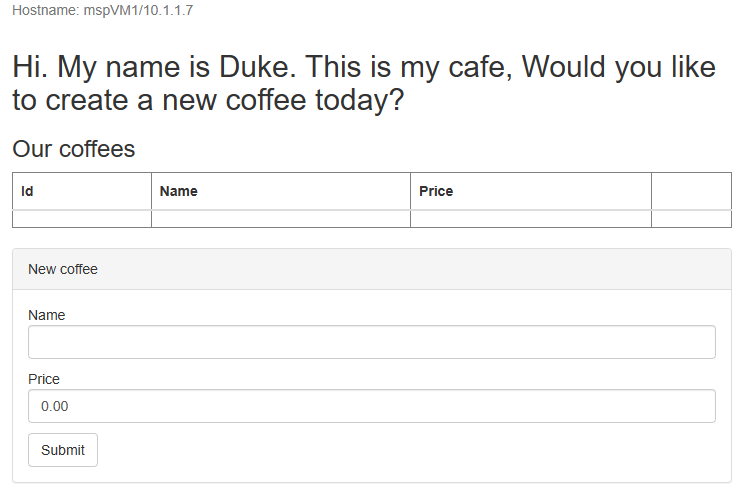
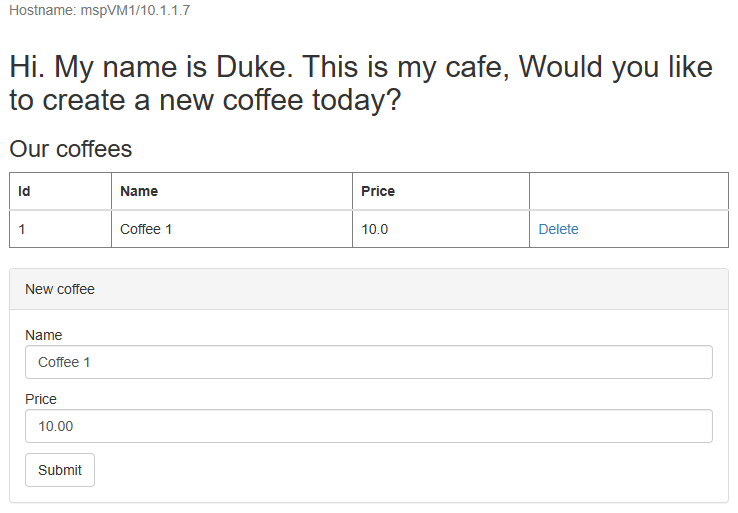
refine sections

diff --git a/articles/java/migration/migrate-weblogic-to-vms-with-ha-dr.md b/articles/java/migration/migrate-weblogic-to-vms-with-ha-dr.md
@@ -22,7 +22,7 @@ In this tutorial, you learn how to:
 > - Setup paired WLS clusters on Azure VMs, where your application workload will be deployed and running.
 > - Setup an Azure Traffic Manager, which allows you to distribute traffic to your public facing applications across the global Azure regions.
 > - Configure active and passive WLS clusters for high availability and disaster recovery.
-> - Validate the solution.
+> - Test failover.
 
 ## Prerequisites
 
@@ -46,31 +46,32 @@ Create a single database in Azure SQL Database and add it to an auto-failover gr
       * Write down **Password**.
       * Select **(US) West US** for **Location**.
    1. In step 12 for **Networking** configuration, select **Yes** for **Allow Azure services and resources to access this server**.
+   1. After you create the primary server, open its database, for example, *mySampleDatabase*.
+      1. In the **Query editor (preview)** pane, enter **azureuser** for **Login**, server admin login password you wrote down before for **Password**, and select **OK**. You should see **Query editor** window after successful login.
+
+      > [!NOTE]
+      > If login failed with the similar error message **Client with IP address 'xx.xx.xx.xx' is not allowed to access the server**, select **Allowlist IP xx.xx.xx.xx on server \<your-sqlserver-name\>** at the end of the error message. Wait until server firewall rules updates complete and select **OK** again.
+
+      1. Copy and paste the following SQL query to the editor, and select **Run**. You should see message **Query succeeded: Affected rows: 0** after successful run.
+
+      ```sql
+      create table TLOG_msp1_primary_WLStore (ID DECIMAL(38) NOT NULL, TYPE DECIMAL(38) NOT NULL, HANDLE DECIMAL(38) NOT NULL, RECORD VARBINARY(MAX) NOT NULL, PRIMARY KEY (ID));
+      create table TLOG_msp2_primary_WLStore (ID DECIMAL(38) NOT NULL, TYPE DECIMAL(38) NOT NULL, HANDLE DECIMAL(38) NOT NULL, RECORD VARBINARY(MAX) NOT NULL, PRIMARY KEY (ID));
+      create table TLOG_msp3_primary_WLStore (ID DECIMAL(38) NOT NULL, TYPE DECIMAL(38) NOT NULL, HANDLE DECIMAL(38) NOT NULL, RECORD VARBINARY(MAX) NOT NULL, PRIMARY KEY (ID));
+      create table TLOG_msp1_secondary_WLStore (ID DECIMAL(38) NOT NULL, TYPE DECIMAL(38) NOT NULL, HANDLE DECIMAL(38) NOT NULL, RECORD VARBINARY(MAX) NOT NULL, PRIMARY KEY (ID));
+      create table TLOG_msp2_secondary_WLStore (ID DECIMAL(38) NOT NULL, TYPE DECIMAL(38) NOT NULL, HANDLE DECIMAL(38) NOT NULL, RECORD VARBINARY(MAX) NOT NULL, PRIMARY KEY (ID));
+      create table TLOG_msp3_secondary_WLStore (ID DECIMAL(38) NOT NULL, TYPE DECIMAL(38) NOT NULL, HANDLE DECIMAL(38) NOT NULL, RECORD VARBINARY(MAX) NOT NULL, PRIMARY KEY (ID));
+      create table wl_servlet_sessions (wl_id VARCHAR(100) NOT NULL, wl_context_path VARCHAR(100) NOT NULL, wl_is_new CHAR(1), wl_create_time DECIMAL(20), wl_is_valid CHAR(1), wl_session_values VARBINARY(MAX), wl_access_time DECIMAL(20), wl_max_inactive_interval INTEGER, PRIMARY KEY (wl_id, wl_context_path));
+      ```
+
+      These database tables are used for storing transaction logs and sessions data for your WLS clusters and app later.
 
 1. When you reach the section [2 - Create the failover group](/azure/azure-sql/database/failover-group-add-single-database-tutorial?view=azuresql-db&preserve-view=true&tabs=azure-portal#2---create-the-failover-group):
    1. In step 5 for creating the **Failover group**, write down the unique name for **Failover group name**. For example, *failovergroup-ejb113023*.
    1. In step 5 for creating the secondary server, select **(US) East US** for **Location**. Make sure **Allow Azure services to access server** is checked.
 
-After you create the Azure SQL Database failover group, open the SQL database of the primary server. 
-
-1. In the **Query editor (preview)** pane, enter **azureuser** for **Login**, server admin login password you wrote down before for **Password**, and select **OK**. You should see **Query editor** window after successful login.
-
-   > [!NOTE]
-   > If login failed with the similar error message **Client with IP address 'xx.xx.xx.xx' is not allowed to access the server**, select **Allowlist IP xx.xx.xx.xx on server \<your-sqlserver-name\>** at the end of the error message. Wait until server firewall rules updates complete and select **OK** again.
-
-1. Copy and paste the following SQL query to the editor, and select **Run**. You should see message **Query succeeded: Affected rows: 0** after successful run.
-
-   ```sql
-   create table TLOG_msp1_primary_WLStore (ID DECIMAL(38) NOT NULL, TYPE DECIMAL(38) NOT NULL, HANDLE DECIMAL(38) NOT NULL, RECORD VARBINARY(MAX) NOT NULL, PRIMARY KEY (ID));
-   create table TLOG_msp2_primary_WLStore (ID DECIMAL(38) NOT NULL, TYPE DECIMAL(38) NOT NULL, HANDLE DECIMAL(38) NOT NULL, RECORD VARBINARY(MAX) NOT NULL, PRIMARY KEY (ID));
-   create table TLOG_msp3_primary_WLStore (ID DECIMAL(38) NOT NULL, TYPE DECIMAL(38) NOT NULL, HANDLE DECIMAL(38) NOT NULL, RECORD VARBINARY(MAX) NOT NULL, PRIMARY KEY (ID));
-   create table TLOG_msp1_secondary_WLStore (ID DECIMAL(38) NOT NULL, TYPE DECIMAL(38) NOT NULL, HANDLE DECIMAL(38) NOT NULL, RECORD VARBINARY(MAX) NOT NULL, PRIMARY KEY (ID));
-   create table TLOG_msp2_secondary_WLStore (ID DECIMAL(38) NOT NULL, TYPE DECIMAL(38) NOT NULL, HANDLE DECIMAL(38) NOT NULL, RECORD VARBINARY(MAX) NOT NULL, PRIMARY KEY (ID));
-   create table TLOG_msp3_secondary_WLStore (ID DECIMAL(38) NOT NULL, TYPE DECIMAL(38) NOT NULL, HANDLE DECIMAL(38) NOT NULL, RECORD VARBINARY(MAX) NOT NULL, PRIMARY KEY (ID));
-   create table wl_servlet_sessions (wl_id VARCHAR(100) NOT NULL, wl_context_path VARCHAR(100) NOT NULL, wl_is_new CHAR(1), wl_create_time DECIMAL(20), wl_is_valid CHAR(1), wl_session_values VARBINARY(MAX), wl_access_time DECIMAL(20), wl_max_inactive_interval INTEGER, PRIMARY KEY (wl_id, wl_context_path));
-   ```
-
-   These database tables are used for storing transaction logs and sessions data for your WLS clusters and app later.
+1. When you reach the section [3 - Test failover](/azure/azure-sql/database/failover-group-add-single-database-tutorial?view=azuresql-db&preserve-view=true&tabs=azure-portal#3---test-failover):
+   1. After you complete all steps,  keep the failover group page open and you will use it for failover test of the WLS clusters later.
 
 ## Setup paired WLS clusters on Azure VMs
 
@@ -191,7 +192,7 @@ First, build and package a sample CRUD Java/JakartaEE EE application that will b
 
 Now deploy sample app to clusters, starting from the primary cluster.
 
-1. Open *adminConsole* of the cluster in your web browser, sign in to WebLogic Server Administratiion Console with username and password of WebLogic Administrator you wrote down before.
+1. Open *adminConsole* of the cluster in a new tab of your web browser, sign in to WebLogic Server Administratiion Console with username and password of WebLogic Administrator you wrote down before.
 1. Locate to **Domain structure** > **wlsd** > **Deployments** in the left navigation area. Select **Deployments**.
 1. Select **Lock & Edit** > **Install** > **Upload your file(s)** > **Choose File**. Select *weblogic-cafe.war* you prepared above. 
 1. Select **Next** > **Next** > **Next**. Select **cluster1** with option **All servers in the cluster** for deployment targets. Select **Next** > **Finish**. Select **Activate Changes**.
@@ -228,30 +229,37 @@ Repeat the same steps above in WebLogic Server Administratiion Console, but for 
 1. For server **msp2**, set *TLOG_msp2_secondary_* for **Prefix Name** under **Transaction Log Store** section.
 1. For server **msp3**, set *TLOG_msp3_secondary_* for **Prefix Name** under **Transaction Log Store** section.
 
-### Restart managed servers for the primary cluster
+### Restart managed servers
 
-To make the primary cluster active, restart all managed servers for the changes to take effect.
+Then, restart all managed servers for the changes to take effect, starting from the primary cluster.
 
-1. Make sure you have signed in to WebLogic Server Administratiion Console of the primary cluster.
+1. Make sure you have signed in to WebLogic Server Administratiion Console.
 1. Locate to **Domain structure** > **wlsd** > **Environment** > **Servers** in the left navigation area. Select "Servers".
 1. Select **Control** tab. Check *msp1*, *msp2* and *msp3*. Select **Shutdown** with option **When work completes** > **Yes**. Select refresh icon. Wait until **Status of Last Action** is *TASK COMPLETED*. You should see **State** for selected servers is *SHUTDOWN*. Select refresh icon again to stop status monitoring.
 1. Check *msp1*, *msp2* and *msp3* again. Select **Start** > **Yes**. Select refresh icon. Wait until **Status of Last Action** is *TASK COMPLETED*. You should see **State** for selected servers is *RUNNING*. Select refresh icon again to stop status monitoring.
 
-Open the DNS name of your Azure Traffic Manager profile in a new tab of the browser, appending with application context root */weblogic-cafe*, for example, `http://tmprofile-ejb113023.trafficmanager.net/weblogic-cafe`. You should see the UI of the sample application:
+Repeat the same steps above in WebLogic Server Administratiion Console, but for the secondary cluster.
+
+### Stop VMs in the secondary cluster
+
+Since the primary cluster is up and running, it acts as the active cluster and handles all user requests due to its higher priority configured in your Traffic Manager profile. Now you can stop all VMs in the secondary cluster to make it passive so that they won't be charged.
+
+1. Open the Azure portal home in a new tab of your browser, select **All resources**. In **Filter for any field...** box, enter resource group name where the secondary cluster is deployed, for example, *wls-cluster-eastus-ejb113023*.
+1. Select **Type equals all** to open **Type** filter. Enter *Virtual machine* for **Value**, you should see one entry matched. Select it for **Value**. Select **Apply**. You should see 4 VMs listed.
+1. Select to open each of VMs. Select **Stop** and confirm. Select **Refresh**, wait until **Status** of 4 VMs becomes *Stopped (deallocated)*.
+
+Keep the page open and you will use it for failover test later.
+
+Now open the overview page of your Traffic Manager profile, you should see **Monitor status** of endpoint *myFailoverEndpoint* becomes *Degraded*.
+
+### Verify app
+
+Open the DNS name of your Azure Traffic Manager profile in a new tab of the browser, appending with the context root */weblogic-cafe* of the deployed app, for example, `http://tmprofile-ejb113023.trafficmanager.net/weblogic-cafe`.
+Create a new coffee with name and price (for example, *Coffee 1* with *10*), which is persisted into both application data table and session table of the database. You should see the similar UI of the sample app as below:
 
 :::image type="content" source="media/migrate-weblogic-to-vms-with-ha-dr/sample-app-ui.png" alt-text="Screenshot of the sample application UI." lightbox="media/migrate-weblogic-to-vms-with-ha-dr/sample-app-ui.png":::
 
 If you don't see this, you must troubleshoot and resolve the issue before continuing.
-
-### Stop all VMs in the secondary cluster
-
-Since the active cluster is up and running, it handles all user requests due to its higher priority configured in your Traffic Manager profile. Now you can stop all VMs in the secondary cluster to make it passive, and the configuration changes you made before will take effect when you start VMs in the secondary cluster for the failover.
-
-1. In the Azure portal home, select **All resources**. In **Filter for any field...** box, enter resource group name where the secondary cluster is deployed, for example, *wls-cluster-eastus-ejb113023*.
-1. Select **Type equals all** to open **Type** filter. Enter *Virtual machine* for **Value**, you should see one entry matched. Select it for **Value**. Select **Apply**. You should see 4 VMs listed.
-1. Select to open each of VMs. Select **Stop** and confirm. Select **Refresh**, wait until **Status** of 4 VMs becomes *Stopped (deallocated)*.
-
-Now open the overview page of your Traffic Manager profile, you should see **Monitor status** of endpoint *myFailoverEndpoint* becomes *Degraded*.
 
 ## Next steps
 
